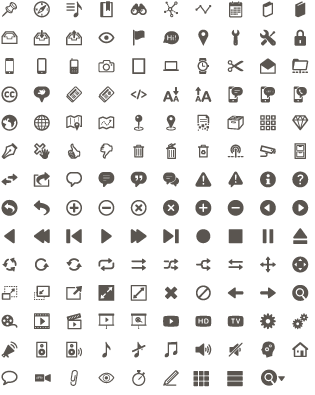
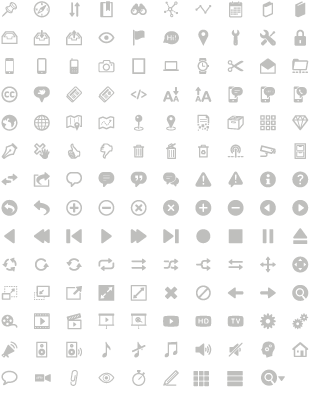
updated zicon sprite colors

diff --git a/web/gamma/js/backbone/views/layer.view.visual.list.js b/web/gamma/js/backbone/views/layer.view.visual.list.js
@@ -274,7 +274,7 @@ var VisualLayerListView = Backbone.View.extend({
 				'<span class="delete-layer zicon zicon-trash-closed"></span>'+
 			'</div>'+
 			'<div class="layer-drag-handle">'+
-				'<span class="ui-icon ui-icon-grip-solid-horizontal"></span>'+
+				'<span class="zicon zicon-vert-drag"></span>'+
 			'</div>'+
 		'</div>'+
 		'<div class="layer-content inset-tray dark hidden">'+

diff --git a/web/gamma/css/zeega.css b/web/gamma/css/zeega.css
@@ -770,6 +770,7 @@ a.white:hover
 .zicon-link{background-position:-32px 0}
 .zicon-gear{background-position:-259px -312px}
 .zicon-searchdropdown{background-position: -259px -369px;width: 27px;}
+.zicon-vert-drag{background-position:-65px -1px}
 
 
 .zicon-close{background-position:-162px -284px}
